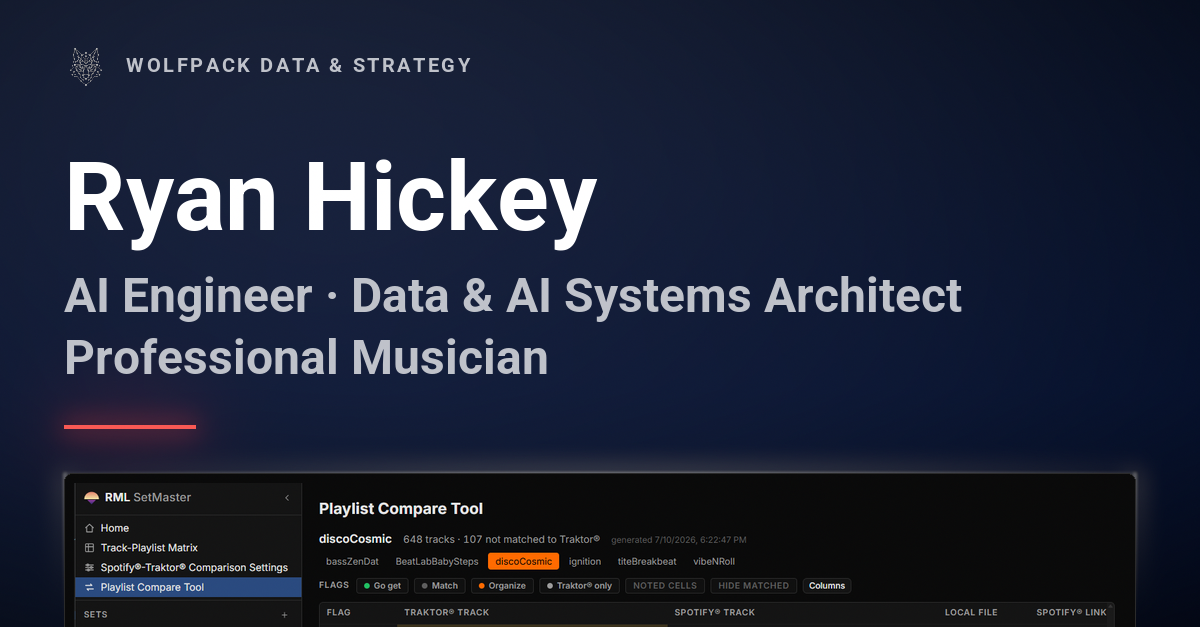
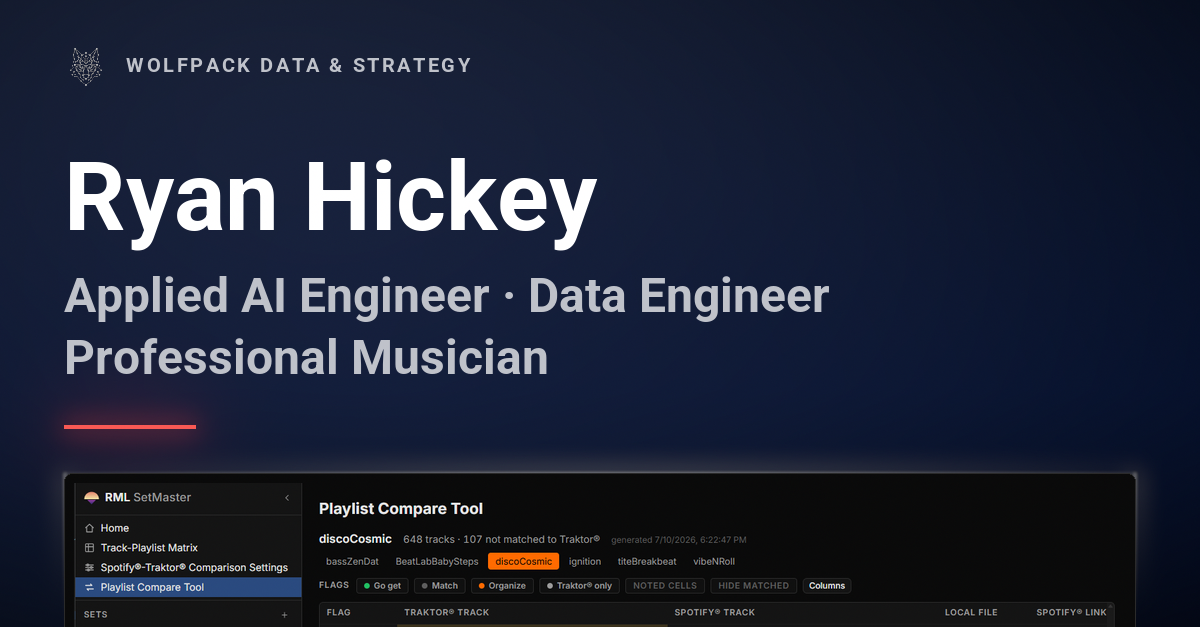
feat(social-cards): rebuild the two hire cards for the current role line (#267) (#268)
The cards had fallen two title changes behind their pages — they still read
"AI Engineer · Data & AI Systems Architect" after #259/#260 and #263.

  og-ryan-hickey.png        Applied AI Engineer · Data Engineer · COO
  og-ryan-hickey-music.png  Applied AI Engineer · Data Engineer ·
                            Professional Musician

Each mirrors its page's <title> — three parts, not the résumé's four, which is
the pattern these cards already followed.

og:image:alt moves with the art. It was deliberately left stale in #263 because
it describes the card pixels rather than the page, and editing it then would
have made it false. The art has now caught up, so the alt text does too.

Also retargets one docstring example in wrap_parts(), which named "Data & AI
Systems Architect" in the present tense as the phrase that must not split across
lines. The paragraph above it quotes the same string as a historical account of
the music card's first pass, and that one is left alone — it is accurate as
history.

Nothing else changed: build_cards.py rebuilds all nine cards on every run, and
the other seven came back byte-identical, which is the determinism the file's
header claims. No headshot on either card, both still separable at 360px by
structure rather than by subtitle, both still 1200x627.

Refs #267

Changed region(s): [[0.0617, 0.4242, 0.8017, 0.5152]]

diff --git a/hire/ryan-hickey-music/index.html b/hire/ryan-hickey-music/index.html
@@ -28,7 +28,7 @@
 <meta property="og:image" content="https://intake.wolfstrategyllc.com/hire/assets/img/og-ryan-hickey-music.png">
 <meta property="og:image:width" content="1200">
 <meta property="og:image:height" content="627">
-<meta property="og:image:alt" content="RML SetMaster 3's playlist compare tool on a navy field, titled Ryan Hickey — AI Engineer &middot; Data &amp; AI Systems Architect &middot; Professional Musician.">
+<meta property="og:image:alt" content="RML SetMaster 3's playlist compare tool on a navy field, titled Ryan Hickey — Applied AI Engineer &middot; Data Engineer &middot; Professional Musician.">
 <meta name="twitter:card" content="summary_large_image">
 <link rel="icon" type="image/png" href="../assets/img/wolfpack-logo.png">
 

diff --git a/hire/ryan-hickey/index.html b/hire/ryan-hickey/index.html
@@ -28,7 +28,7 @@
 <meta property="og:image" content="https://intake.wolfstrategyllc.com/hire/assets/img/og-ryan-hickey.png">
 <meta property="og:image:width" content="1200">
 <meta property="og:image:height" content="627">
-<meta property="og:image:alt" content="A data-pipeline render and the pdpd bulk-edit console on a navy field, titled Ryan Hickey — AI Engineer &middot; Data &amp; AI Systems Architect &middot; COO.">
+<meta property="og:image:alt" content="A data-pipeline render and the pdpd bulk-edit console on a navy field, titled Ryan Hickey — Applied AI Engineer &middot; Data Engineer &middot; COO.">
 <meta name="twitter:card" content="summary_large_image">
 <link rel="icon" type="image/png" href="../assets/img/wolfpack-logo.png">
 

diff --git a/social-cards/build_cards.py b/social-cards/build_cards.py
@@ -252,9 +252,9 @@ def wrap_parts(draw, parts, font, max_w):
     separator per line means it can only ever appear BETWEEN two phrases that
     share a line, never at a line's start or end.
 
-    It also keeps a phrase whole, which is the more important half: "Data & AI
-    Systems Architect" is one job title and splitting it across two lines reads
-    as two.
+    It also keeps a phrase whole, which is the more important half: "Applied
+    AI Engineer" is one job title and splitting it across two lines reads as
+    two.
 
     Returns None when a single phrase cannot fit on a line by itself — the
     caller steps the size down instead of shipping an overflowing line.
@@ -680,7 +680,7 @@ CARDS = [
         "out": "hire/assets/img/og-ryan-hickey.png",
         "logo": "hire/assets/img/wolfpack-logo.png",
         "title": "Ryan Hickey",
-        "subtitle": "AI Engineer · Data & AI Systems Architect · COO",
+        "subtitle": "Applied AI Engineer · Data Engineer · COO",
         "max_lines": 1,
         # The backbone render is 16:9 art, not a screenshot, so it takes
         # vfocus=0.5 for the reason framed()'s docstring gives: top-anchoring a
@@ -712,7 +712,7 @@ CARDS = [
         "out": "hire/assets/img/og-ryan-hickey-music.png",
         "logo": "hire/assets/img/wolfpack-logo.png",
         "title": "Ryan Hickey",
-        "subtitle": "AI Engineer · Data & AI Systems Architect · Professional Musician",
+        "subtitle": "Applied AI Engineer · Data Engineer · Professional Musician",
         "max_lines": 1,
         "insets": [("hire/assets/img/app-setmaster.png", None, 0.0)],
     },
